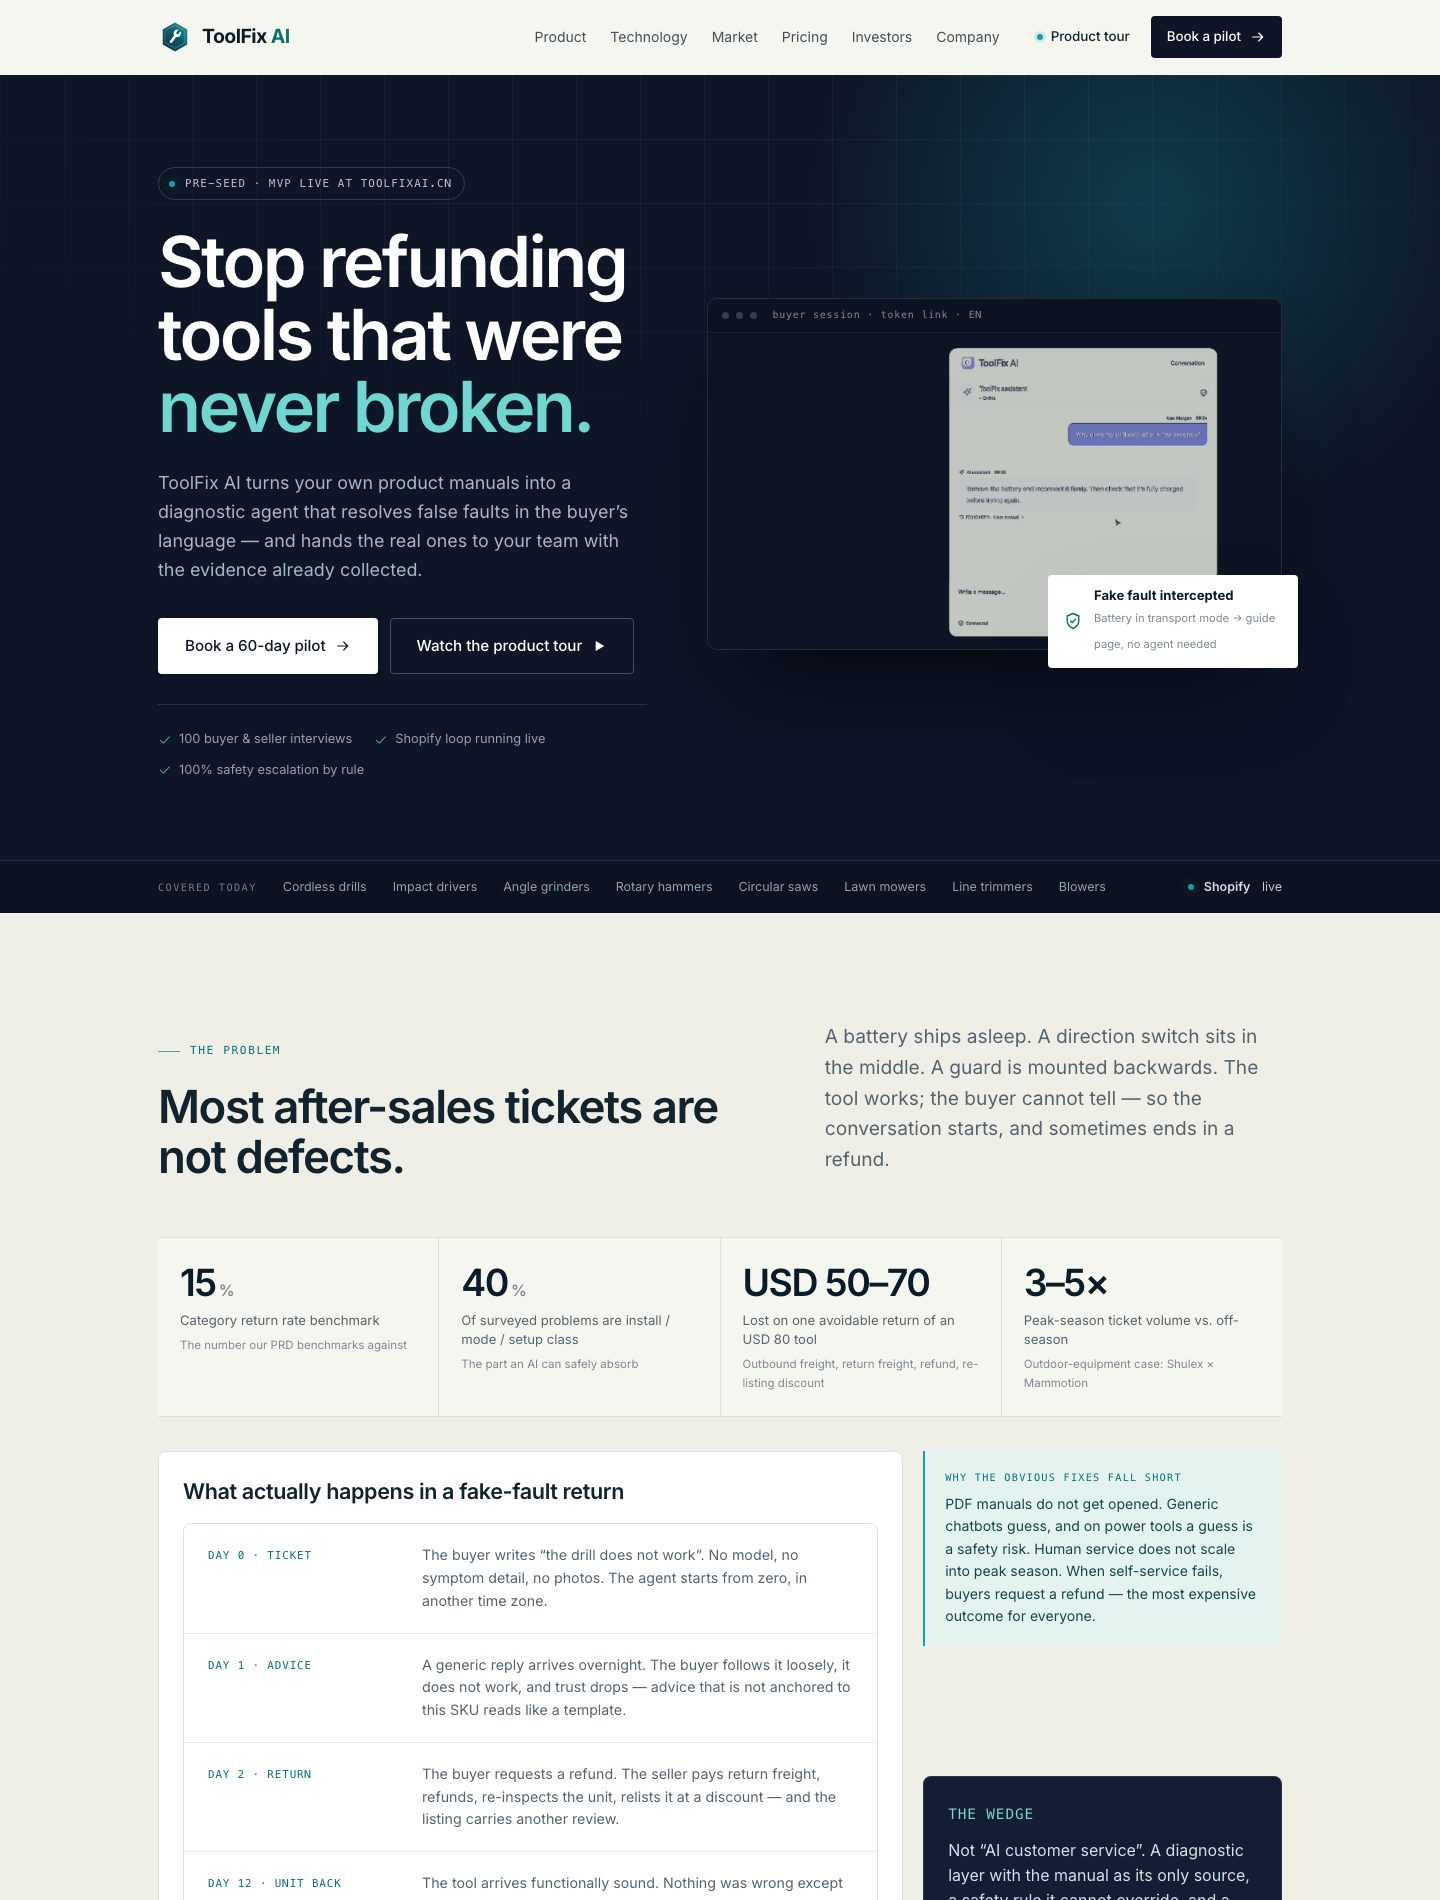
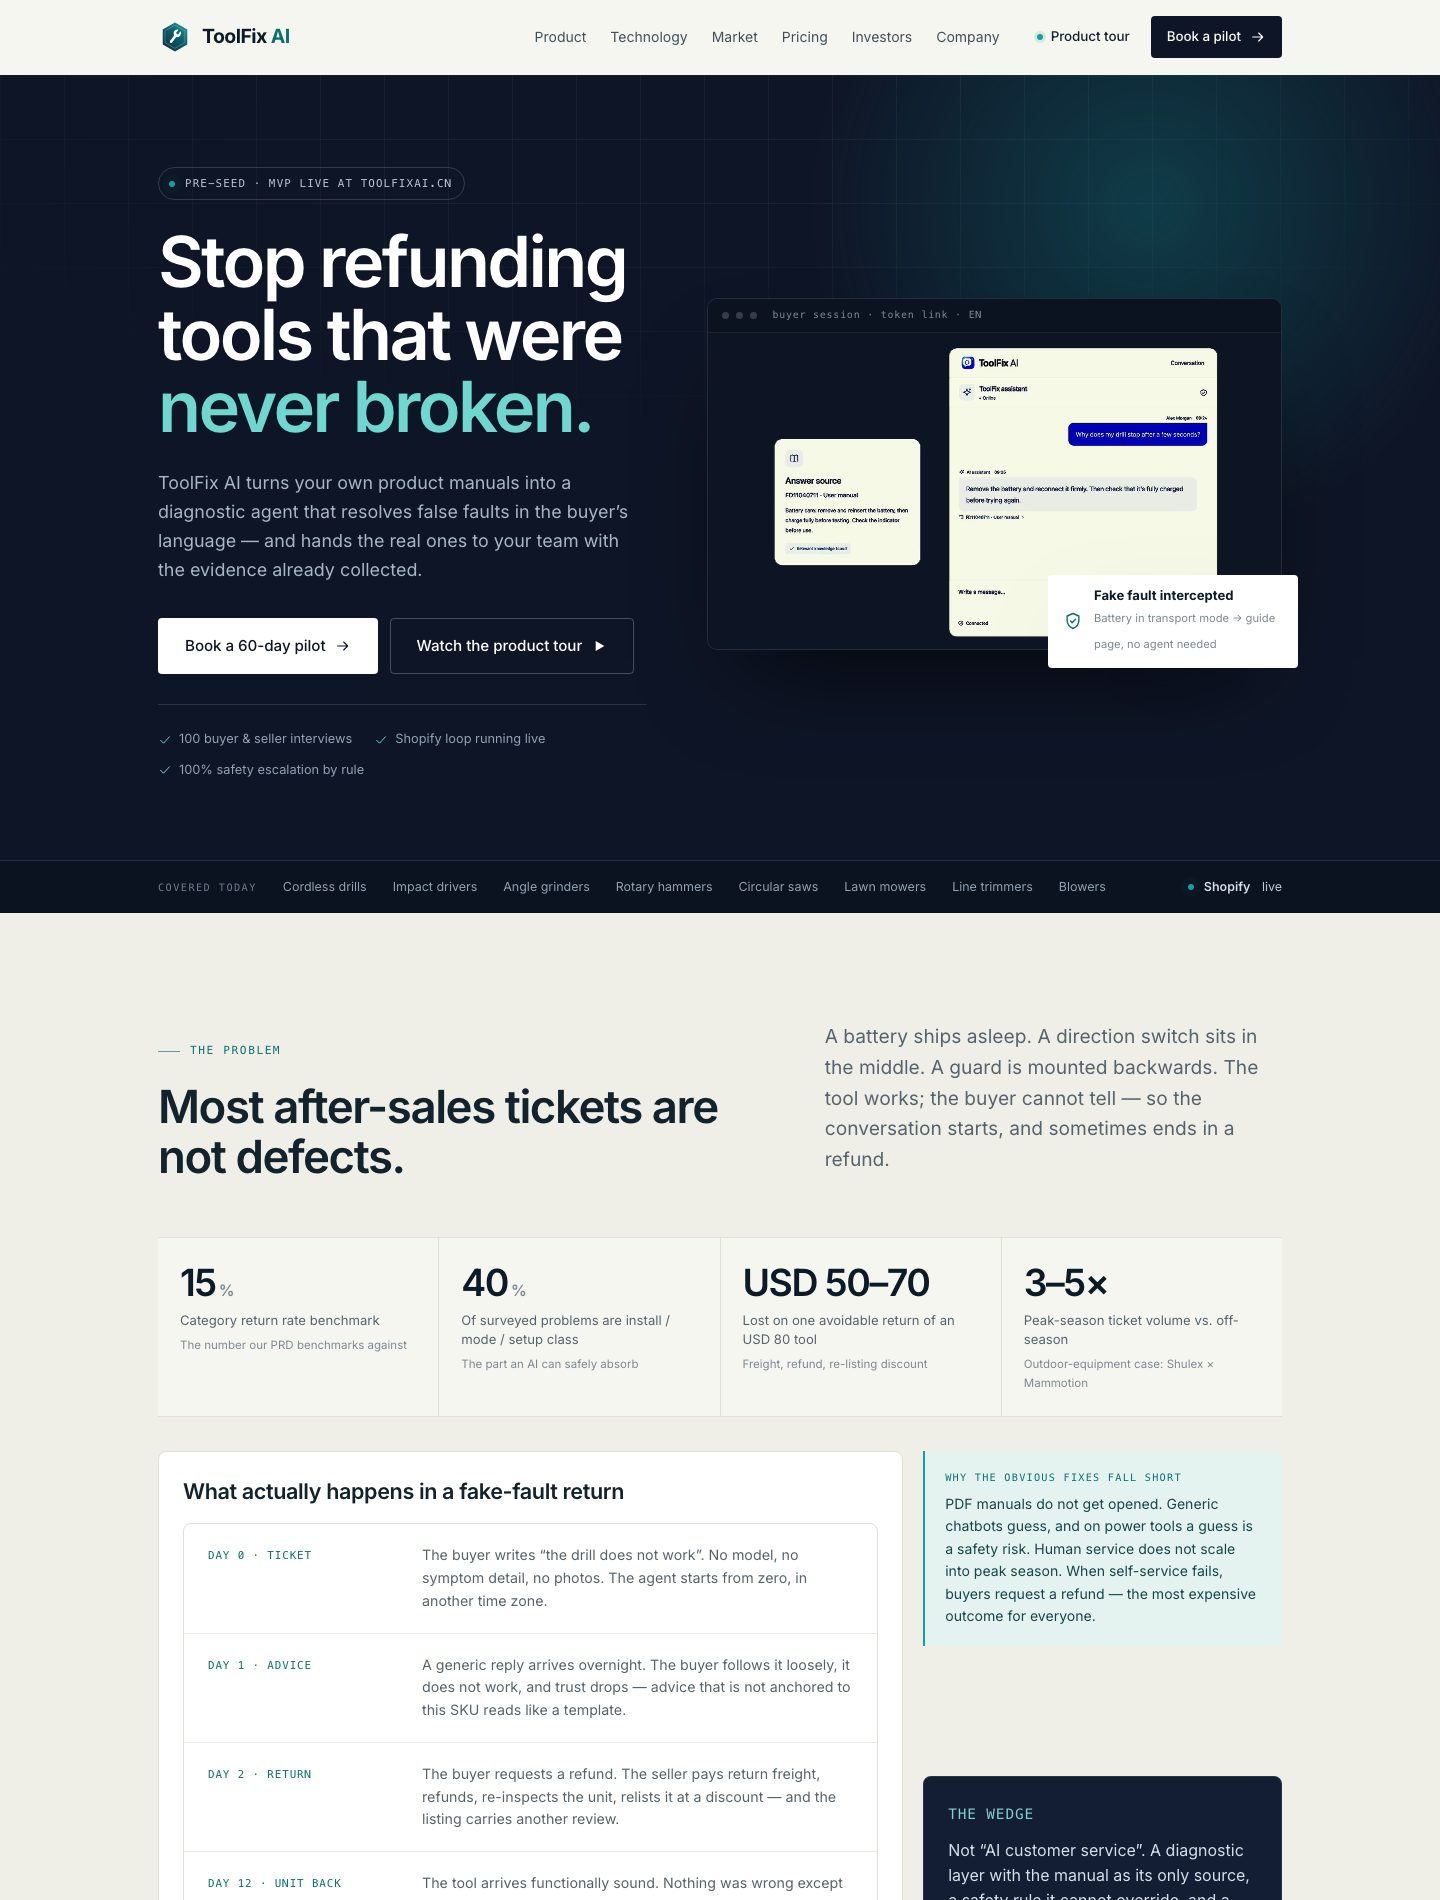
Refresh preview images with the new visual layer

Changed region(s): [[0.5312, 0.1553, 0.8438, 0.3416], [0.5312, 0.7142, 0.5625, 0.7453]]

diff --git a/README.md b/README.md
@@ -4,6 +4,8 @@
 
 ![Product tour](docs/preview-demo.jpg)
 
+![The returns problem](docs/preview-returns.jpg)
+
 Static marketing site for **ToolFix AI**, a vertical AI after-sales diagnostics platform for
 power-tool brands selling across borders. Twelve pages, fifteen recorded product clips, and no
 runtime dependencies.
